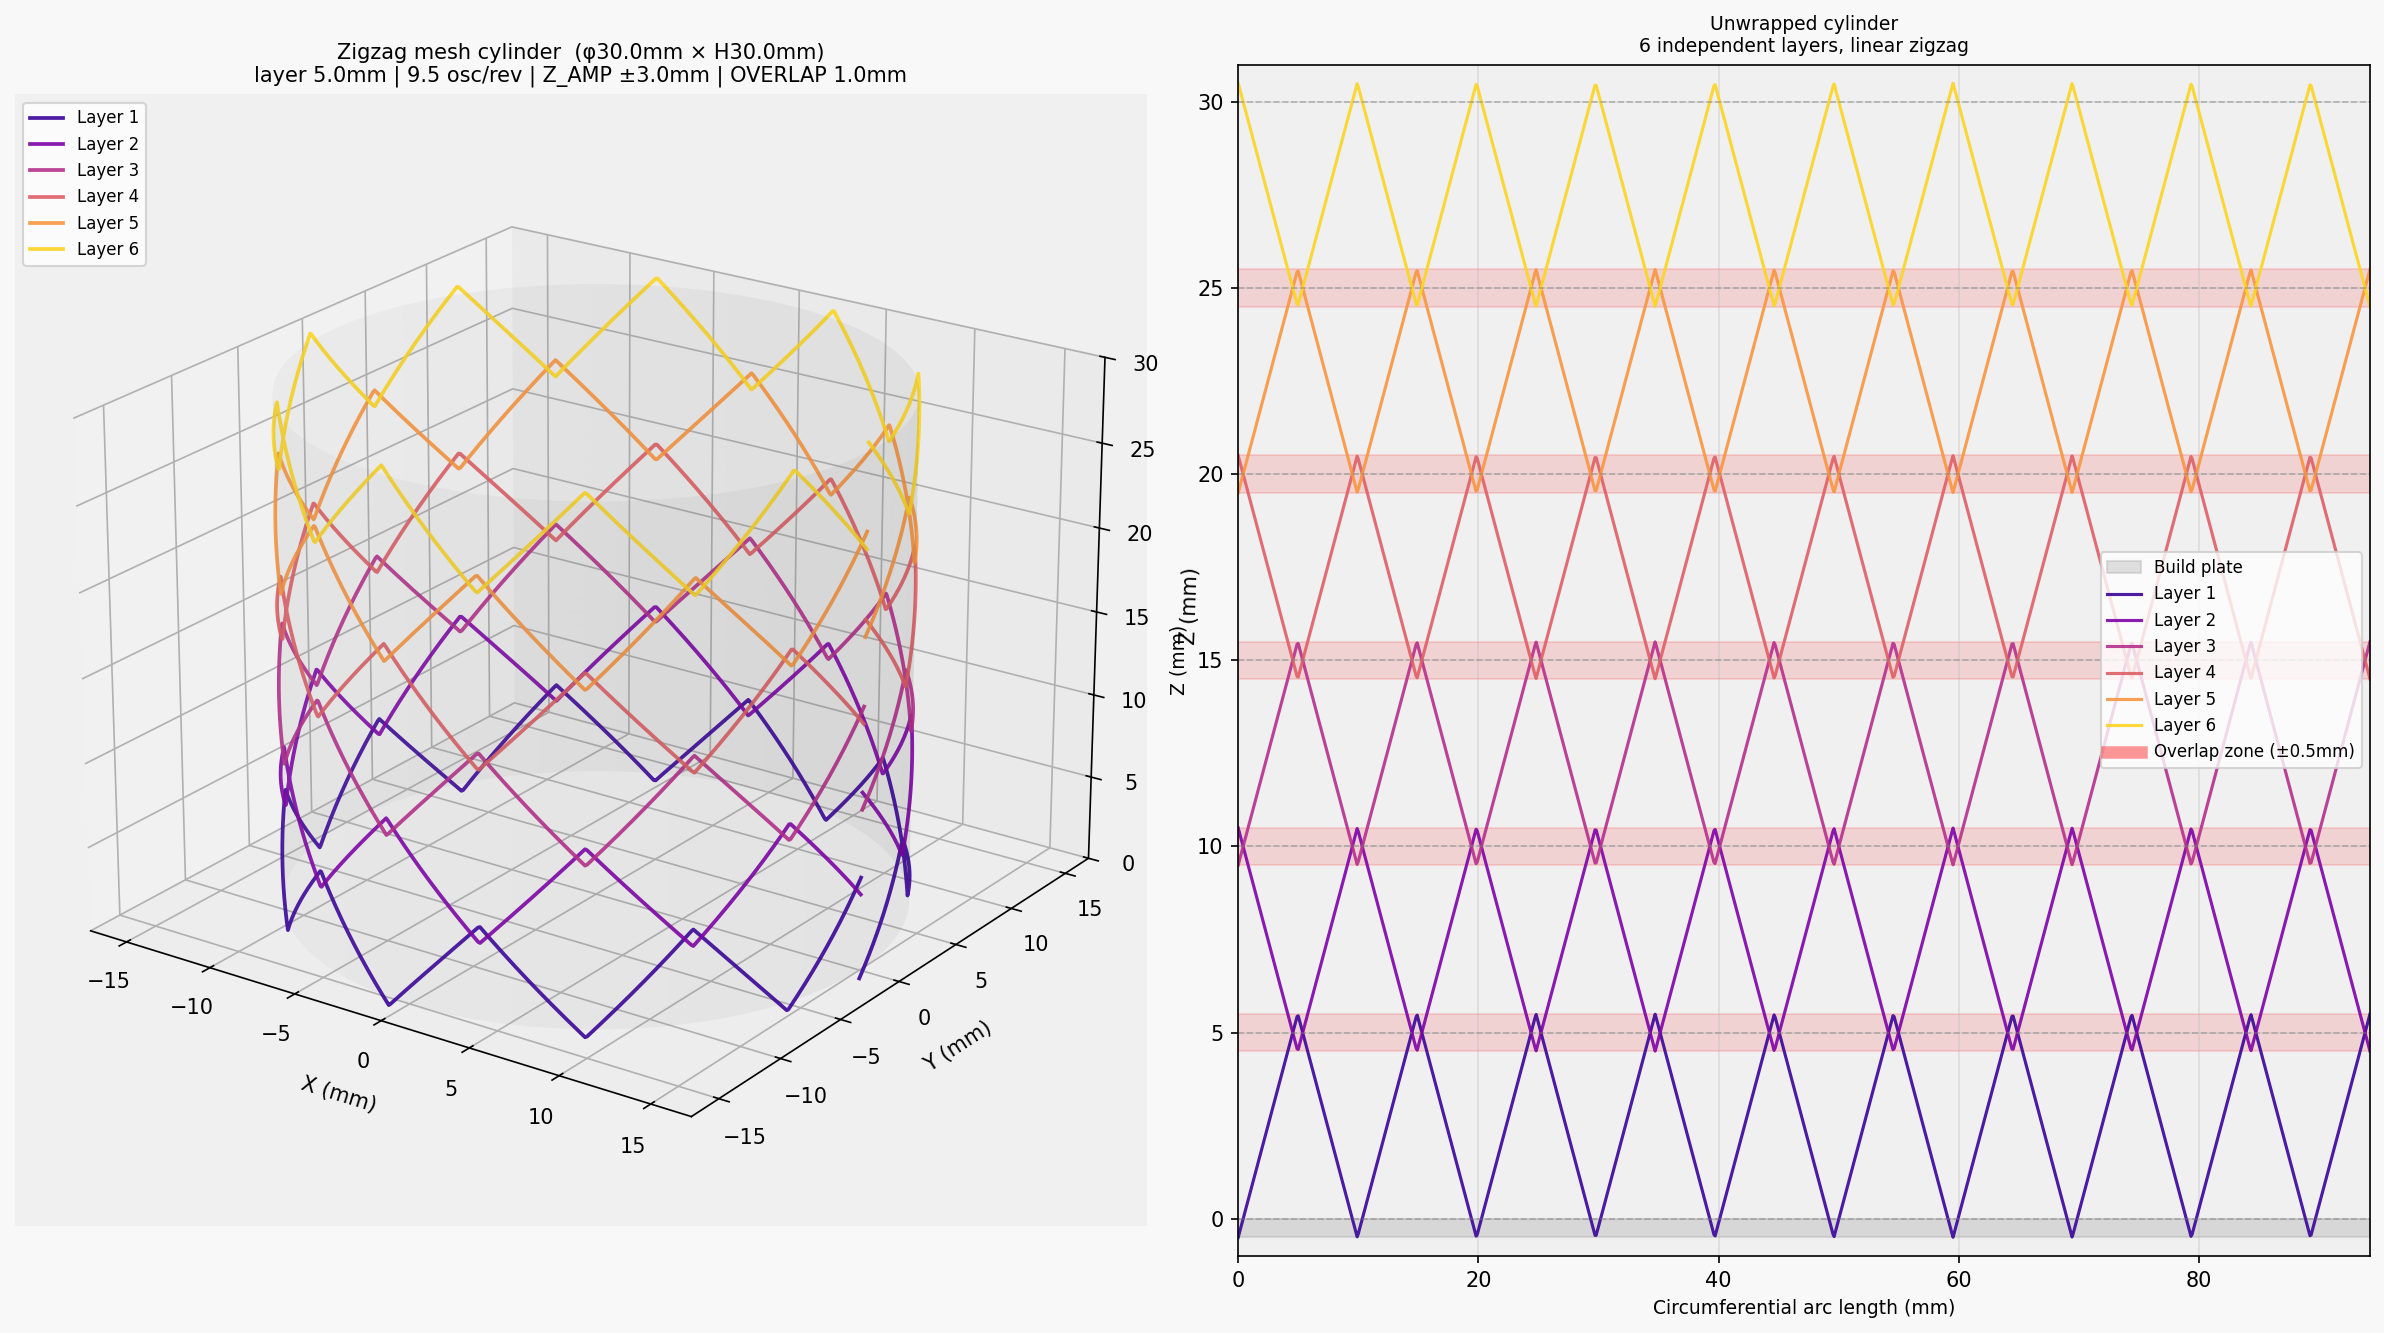
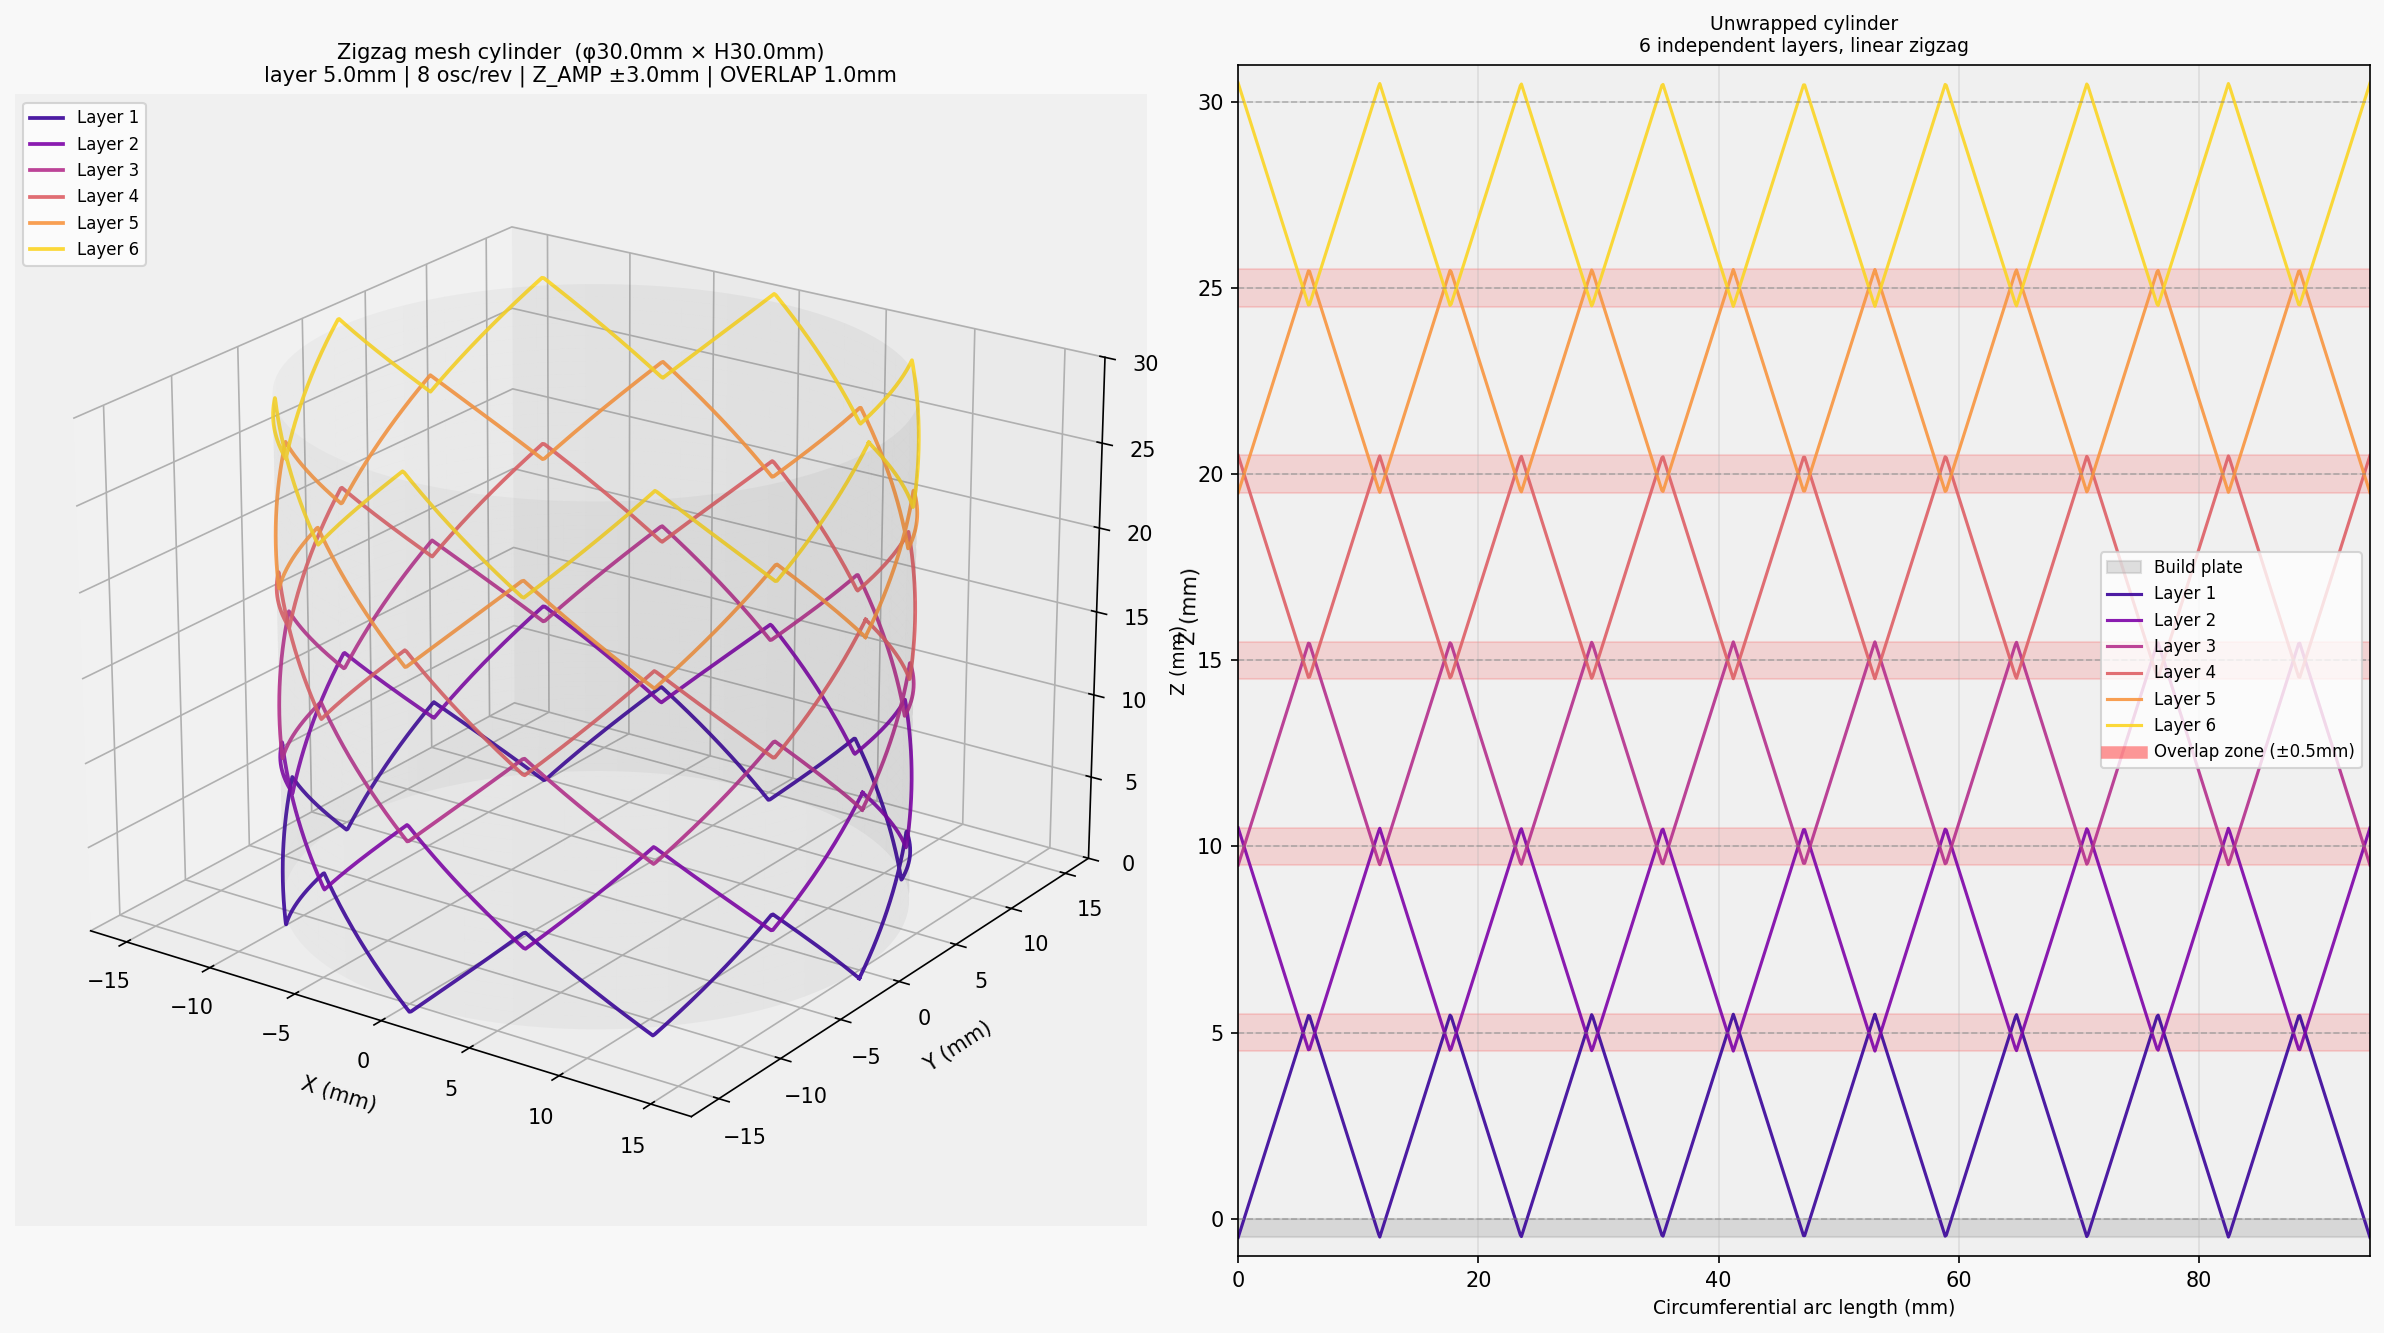
Change N_OSC_PER_REV to 8 (integer) for seamless closed loops
With layer-by-layer design, phase alternation is set explicitly per
layer, so integer N_OSC is fine. Integer value ensures start/end Z
match at t=0/2π → no seam in each closed loop.

https://claude.ai/code/session_019mxeRrqVgXTzK2RYrnWd97

diff --git a/visualize_zigzag.py b/visualize_zigzag.py
@@ -6,7 +6,7 @@ from mpl_toolkits.mplot3d import Axes3D
 CIRCLE_DIA    = 30.0
 TOTAL_HEIGHT  = 30.0
 LAYER_HEIGHT  = 5.0
-N_OSC_PER_REV = 9.5   # half-integer → phase inverts per layer → diamond mesh
+N_OSC_PER_REV = 8     # integer OK (phase per layer set explicitly) → seamless closed loop
 OVERLAP       = 1.0   # mm  peaks embed into adjacent layer by this amount
 Z_AMP         = (LAYER_HEIGHT + OVERLAP) / 2  # 3.0 mm
 
